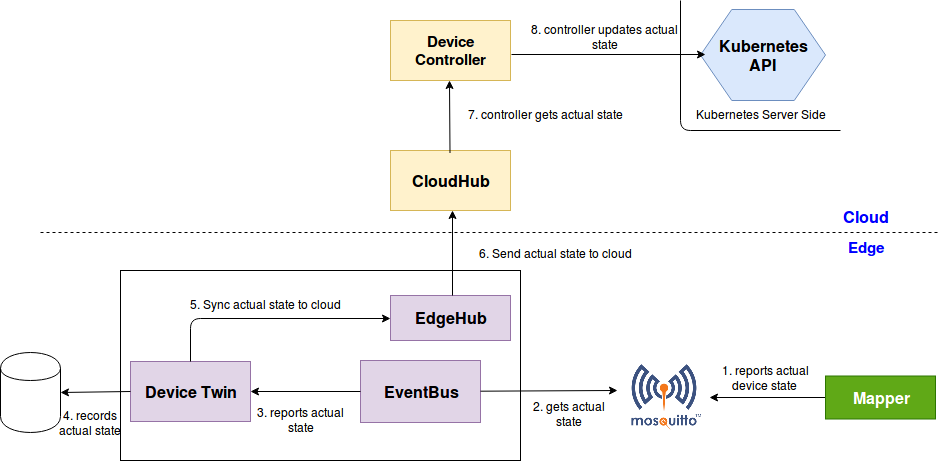
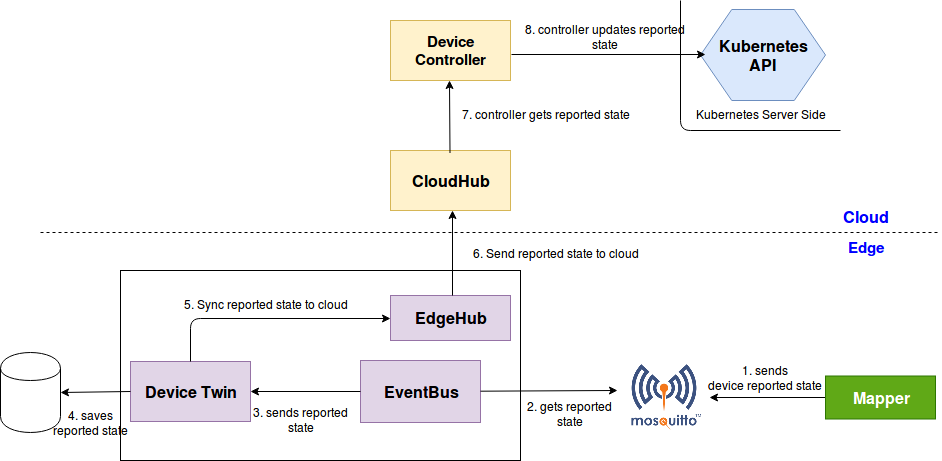
worked on review comments

diff --git a/docs/proposals/device-crd.md b/docs/proposals/device-crd.md
@@ -9,7 +9,7 @@ approvers:
   - "@Baoqiang-Zhang"
   - "@m1093782566"
 creation-date: 2019-02-27
-last-updated: 2019-03-29
+last-updated: 2019-04-01
 status: alpha
 ---
 
@@ -22,17 +22,17 @@ status: alpha
   * [Proposal](#proposal)
     * [Use Cases](#use-cases)
   * [Design Details](#design-details)  
+    * [CRD API Group and Version](#crd-api-group-and-version)
     * [Device model CRD](#device-model-crd)
     * [Device model type definition](#device-model-type-definition)
     * [Device model sample](#device-model-sample)
     * [Device instance CRD](#device-instance-crd)
     * [Device instance type definition](#device-instance-type-definition)
     * [Device instance sample](#device-instance-sample)
-    * [CRD API Group and Version](#crd-api-group-and-version)
     * [Validation](#validation)
     * [Synchronizing Device Twin Updates](#synchronizing-device-twin-updates)
-      * [Syncing Expected Device Twin Property Update From Cloud To Edge](#syncing-expected-device-twin-property-update-from-cloud-to-edge)
-      * [Syncing Actual Device Twin Property Update From Edge To Cloud](#syncing-actual-device-twin-property-update-from-edge-to-cloud)
+      * [Syncing Desired Device Twin Property Update From Cloud To Edge](#syncing-desired-device-twin-property-update-from-cloud-to-edge)
+      * [Syncing Reported Device Twin Property Update From Edge To Cloud](#syncing-reported-device-twin-property-update-from-edge-to-cloud)
   * [Device Controller Design](#device-controller-design)
     * [Downstream Controller](#downstream-controller)
     * [Upstream Controller](#upstream-controller)
@@ -73,11 +73,31 @@ We propose using Kubernetes [Custom Resource Definitions (CRDs)](https://kuberne
   * Users can describe device properties and access mechanisms to interact with / control the device.
 * Perform CRUD operations on devices from cloud.
    * Users can create, update and delete device metadata from the cloud via the CRD APIs exposed by the Kubernetes API server.
-   * Users can control the expected state of a device via the CRD APIs.
-* Report device status from the edge node.
-  * Mapper applications running on the edge can report the device state as well the actual values of the control attributes.
+   * Users can control the desired state of a device via the CRD APIs.
+* Report device properties values.
+  * Mapper applications running on the edge can report the current values of the device properties.
 
 ## Design Details
+
+### CRD API Group and Version
+The `DeviceModel` and `Device` CRD's will be namespace-scoped.
+The tables below summarize the group, kind and API version details for the CRDs.
+
+* DeviceModel
+
+| Field                 | Description             |
+|-----------------------|-------------------------|
+|Group                  | devices.kubeedge.io     |
+|APIVersion             | v1alpha1                |
+|Kind                   | DeviceModel             |
+
+* DeviceInstance
+
+| Field                 | Description             |
+|-----------------------|-------------------------|
+|Group                  | devices.kubeedge.io     |
+|APIVersion             | v1alpha1                |
+|Kind                   | Device                  |
 
 ### Device model CRD
 <img src="../images/device-crd/device-model-crd.png">
@@ -264,20 +284,20 @@ spec:
       scale: 1.0
       isSwap: true
       isRegisterSwap: true
-   - propertyName: temperature-enable
-     modbus:
-       register: DiscreteInputRegister
-       offset: 3
-       limit: 1
-       scale: 1.0
-       isSwap: true
-       isRegisterSwap: true
+  - propertyName: temperature-enable
+    modbus:
+      register: DiscreteInputRegister
+      offset: 3
+      limit: 1
+      scale: 1.0
+      isSwap: true
+      isRegisterSwap: true
 ```
-Shown above is an example device model for a temperature sensor with Modbus protocol. It has two properties :
-- `temperature` : the temperature readings from the sensor. The `type` field indicates that the temperature property is of type `int` , it is read-only and the maximum value it can take is 100.
-- `temperature-enable` : this property defines whether data collection is enabled from the sensor. It is a writable property. Data collection is disabled if it is set to `OFF`. To turn on data collection , it needs to be set to `ON`.
+Shown above is an example device model for a temperature sensor with Modbus protocol. It has two properties:
+- `temperature`: the temperature readings from the sensor. The `type` field indicates that the temperature property is of type `int`, it is read-only and the maximum value it can take is 100.
+- `temperature-enable`: this property defines whether data collection is enabled from the sensor. It is a writable property. Data collection is disabled if it is set to `OFF`. To turn on data collection, it needs to be set to `ON`.
 
-Property visitors provide details like how to access device properties. In the above example , there are two visitors defined which describe how to read / write the device properties using `modbus` protocol. Detailed information on the Modbus registers to access is provided along with the offset, limit and other settings.
+Property visitors provide details like how to access device properties. In the above example, there are two visitors defined which describe how to read/write the device properties using `modbus` protocol. Detailed information on the Modbus registers to access is provided along with the offset, limit and other settings.
 
 ### Device instance CRD
 <img src="../images/device-crd/device-crd.png">
@@ -286,7 +306,7 @@ A `device` instance represents an actual device object. It is like an instantiat
 
 ### Device instance type definition
 ```go
-// DeviceSpec represents a single device instance. It is an instantation of a device model.
+// DeviceSpec represents the static information of a single device instance.
 type DeviceSpec struct {
 	// Required: DeviceModelRef is reference to the device model used as a template
 	// to create the device instance.
@@ -368,20 +388,19 @@ type ProtocolConfigModbusRTU struct {
 	SlaveID    int64  `json:"slaveID,omitempty"`
 }
 
-// DeviceStatus reports the device state and the expected/actual values of twin attributes.
+// DeviceStatus contains the desired/reported values of device twin properties.
 type DeviceStatus struct {
-	// A list of device twins containing expected/actual states of control properties.
-	// Optional: A passive device won't have control attributes and this list could be empty.
+	// A list of device twins containing desired/reported values of twin properties.
+	// A passive device won't have twin properties and this list could be empty.
 	// +optional
 	Twins []Twin      `json:"twins,omitempty"`
 }
 
 // A Twin provides a logical representation of control properties (writable properties in the
 // device model). The properties can have a desired (expected) state and a reported(actual) state.
-// The cloud configures the `desired`state of a device property and this configuration update is pushed
+// The cloud configures the `desired` state of a device property and this configuration update is pushed
 // to the edge node. The mapper sends a command to the device to change this property value as per the desired state.
-// It sends the state reported by the device to the cloud. Offline device interaction in the edge is possible via
-// twin properties for control/command operations.
+// The mapper sends the state reported by the device to the cloud. Offline device interaction in the edge is // possible via twin properties for control/command operations.
 type Twin struct {
 	// Required: The property name for which the desired/reported values are specified.
 	// This property should be present in the device model.
@@ -436,7 +455,7 @@ metadata:
     model: CC2650
 spec:
   deviceModelRef:
-    Name: sensor-tag-model
+    name: sensor-tag-model
   protocol:
     modbus:
       rtu:
@@ -468,24 +487,6 @@ status:
           type: string
         value: OFF
 ```
-### CRD API Group and Version
-The tables below summarize the group, kind and API version details for the CRDs.
-
-* DeviceModel
-
-| Field                 | Description             |
-|-----------------------|-------------------------|
-|Group                  | devices.kubeedge.io     |
-|APIVersion             | v1alpha1                |
-|Kind                   | DeviceModel             |
-
-* DeviceInstance
-
-| Field                 | Description             |
-|-----------------------|-------------------------|
-|Group                  | devices.kubeedge.io     |
-|APIVersion             | v1alpha1                |
-|Kind                   | Device                  |
 
 ### Validation
 [Open API v3 Schema based validation](https://kubernetes.io/docs/tasks/access-kubernetes-api/custom-resources/custom-resource-definitions/#validation) can be used to guard against bad requests.
@@ -494,13 +495,13 @@ The tables below summarize the group, kind and API version details for the CRDs.
 
 The below illustrations describe the flow of events that would occur when device twin expected/actual property values are updated from the cloud/edge.
 
-### Syncing Expected Device Twin Property Update From Cloud To Edge
+### Syncing Desired Device Twin Property Update From Cloud To Edge
 <img src="../images/device-crd/device-updates-cloud-edge.png">
 The device controller watches device updates in the cloud and relays them to the edge node. These updates are stored locally by the device twin. The mapper gets these updates via the broker and operates on the device based on the updates.
 
-### Syncing Actual Device Twin Property Update From Edge To Cloud
+### Syncing Reported Device Twin Property Update From Edge To Cloud
 <img src="../images/device-crd/device-updates-edge-cloud.png">
-The mapper watches devices for updates and reports them to the event bus via the broker. The event bus reports the actual state to the device twin which stores it locally and then syncs the updates to the cloud. The device controller watches for device updates from the edge ( via the cloudhub ) and updates the actual state in the cloud.
+The mapper watches devices for updates and reports them to the event bus via the broker. The event bus sends the reported state of the device to the device twin which stores it locally and then syncs the updates to the cloud. The device controller watches for device updates from the edge ( via the cloudhub ) and updates the reported state in the cloud.
 
 ## Device Controller Design
 The device controller starts two separate goroutines called  `upstream` controller and `downstream` controller. These are not separate controllers as such but named here for clarity.
@@ -582,16 +583,26 @@ data:
           "modelName": "SensorTagModel",
           "protocol": "BluetoothLE",
           "visitorConfig": {
-            "uuid": "F000AA01-0451-4000-B000-000000000000"
+            "register": "CoilRegister",
+            "offset": "2",
+            "limit": "1",
+            "scale": "1.0",
+            "isSwap": "true",
+            "isRegisterSwap": "true"
           }
         },
         {
           "name": "temperatureEnable",
           "propertyName": "temperature-enable",
           "modelName": "SensorTagModel",
-          "protocol": "BluetoothLE",
+          "protocol": "Modbus",
           "visitorConfig": {
-            "uuid": "F000AA02-0451-4000-B000-000000000000"
+            "register": "DiscreteInputRegister",
+            "offset": "3",
+            "limit": "1",
+            "scale": "1.0",
+            "isSwap": "true",
+            "isRegisterSwap": "true"
           }
         }
       ]
@@ -623,6 +634,7 @@ The following factors need to be evaluated in order to analyze issues with scale
   - A detailed design for the device controller is provided in earlier section. The device model and the device instance would be stored in etcd in the cloud. The device twin updates are stored at the edge. The device property and visitors , protocol config are stored in config-maps and consumed by mappers.
 - How are we going to use the device data at cloud ? This can help evaluate item 1
   - This is desribed in the device controller design.
+- Currently, we have only one config map per node which stores all the device instances, device models, protocols and visitors for all the devices connected to the edge node. Mappers running on an edge node managing different devices now need to access one global configmap in order to extract information about the device properties and visitors. What should be the best way to partition a monolithic config map into smaller config maps ? Should the partitioning be based on the protocol type or based on device model ?
 
 ## Device Lifecycle Management
 IoT device lifecycle management comprises of several steps listed below
